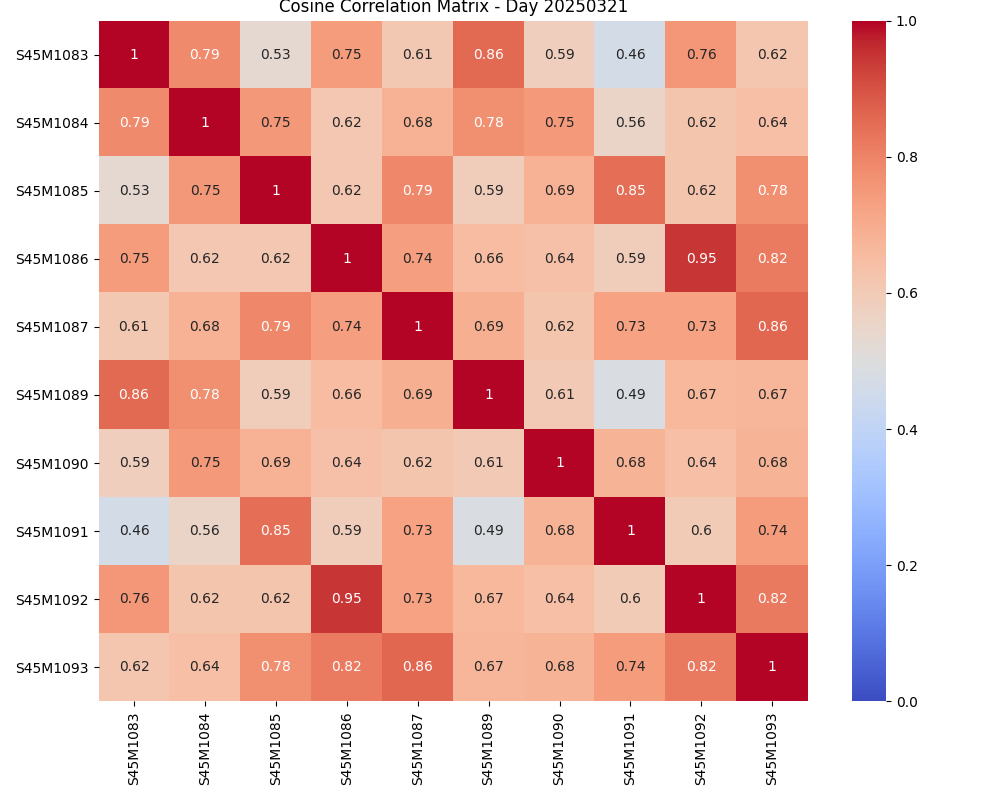
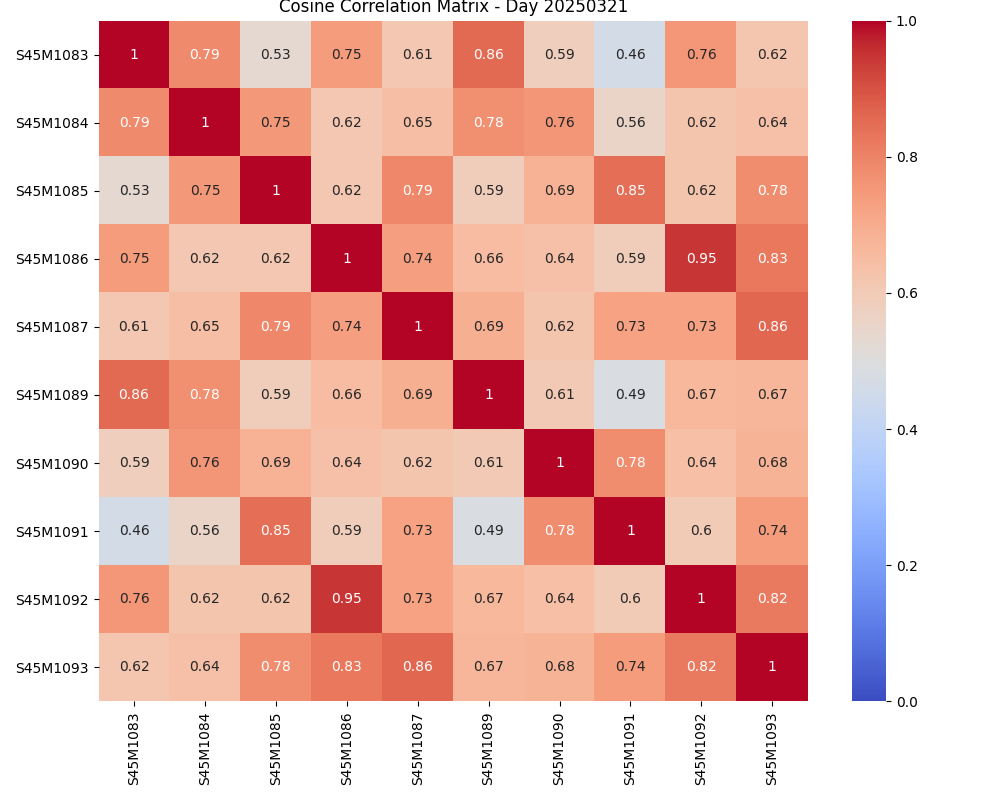
first part of removing offset_cache

Changed region(s): [[0.527, 0.5312, 0.682, 0.7188], [0.186, 0.5625, 0.217, 0.5938]]

diff --git a/code_automated_correlation/automated_similarity.py b/code_automated_correlation/automated_similarity.py
@@ -22,7 +22,7 @@ def similarity(df1, df2):
     return cosine
 
 
-def compute_aligned_correlation_matrix(smp_profiles, day, offset_cache, offset_cache_path, save=True, velocity=None):
+def compute_aligned_correlation_matrix(smp_profiles, day, save=True, velocity=None):
     if velocity is None:
         day_profiles = smp_profiles
     elif velocity == 0: #only use for my special dataset to devide whole set into subsets (compute for both velocities together)
@@ -43,25 +43,14 @@ def compute_aligned_correlation_matrix(smp_profiles, day, offset_cache, offset_c
             if i <= j:
                 df1 = day_profiles[name1]
                 df2 = day_profiles[name2]
-                pair_key = tuple(sorted((name1, name2)))
 
-                if name1 == name2:
-                    cosine = 1.0
-                else:
-                    if pair_key in offset_cache:
-                        lag = offset_cache[pair_key]["lag"]
-                    else:
-                        offset_mm, _, lag = get_offset(df1, df2, name1, name2, plot=False)
-                        # save offset in cache
-                        offset_cache[pair_key] = {"lag": lag}
-                        with open(offset_cache_path, "wb") as f:
-                            pickle.dump(offset_cache, f)
+                offset_mm, _, lag = get_offset(df1, df2, name1, name2, plot=False, target_dir=output_aligned)
 
-                    df1, df2 = align_profiles(df1, df2, name1, name2, lag)
+                df1, df2 = align_profiles(df1, df2, name1, name2, lag, plot=False, target_dir=output_aligned)
 
-                    f1 = df1["force"].values
-                    f2 = df2["force"].values
-                    cosine = similarity(f1, f2)
+                f1 = df1["force"].values
+                f2 = df2["force"].values
+                cosine = similarity(f1, f2)
 
                 corr_matrix[i, j] = cosine
                 corr_matrix[j, i] = cosine
@@ -93,20 +82,14 @@ if __name__ == "__main__":
     root = Path(__file__).resolve().parent 
     input_root = root/ "raw_data"
     output_root = root / "output" / "similarity_scores"
-    offset_cache_path = output_root / "offset_cache.pkl"
+    output_aligned = root / "output" / "crosscorrelation"
 
-    offset_cache = load_cache(offset_cache_path)
 
     for folder_path in sorted(input_root.iterdir()):
         if folder_path.is_dir():
             day = folder_path.name
             smp_profiles = load_profiles(folder_path)
 
-        corr_path = output_root / f"corr_data_day{day}.pkl"
-        if not os.path.exists(corr_path): 
-            corr_df = compute_aligned_correlation_matrix(smp_profiles, day, offset_cache, offset_cache_path)
-        else: 
-            with open(corr_path, "rb") as f:
-                data = pickle.load(f)
-            corr_df = pd.DataFrame(data["matrix"], index=data["labels"], columns=data["labels"])
+        corr_df = compute_aligned_correlation_matrix(smp_profiles, day)
+
         plot_correlation_matrix(corr_df, day)
